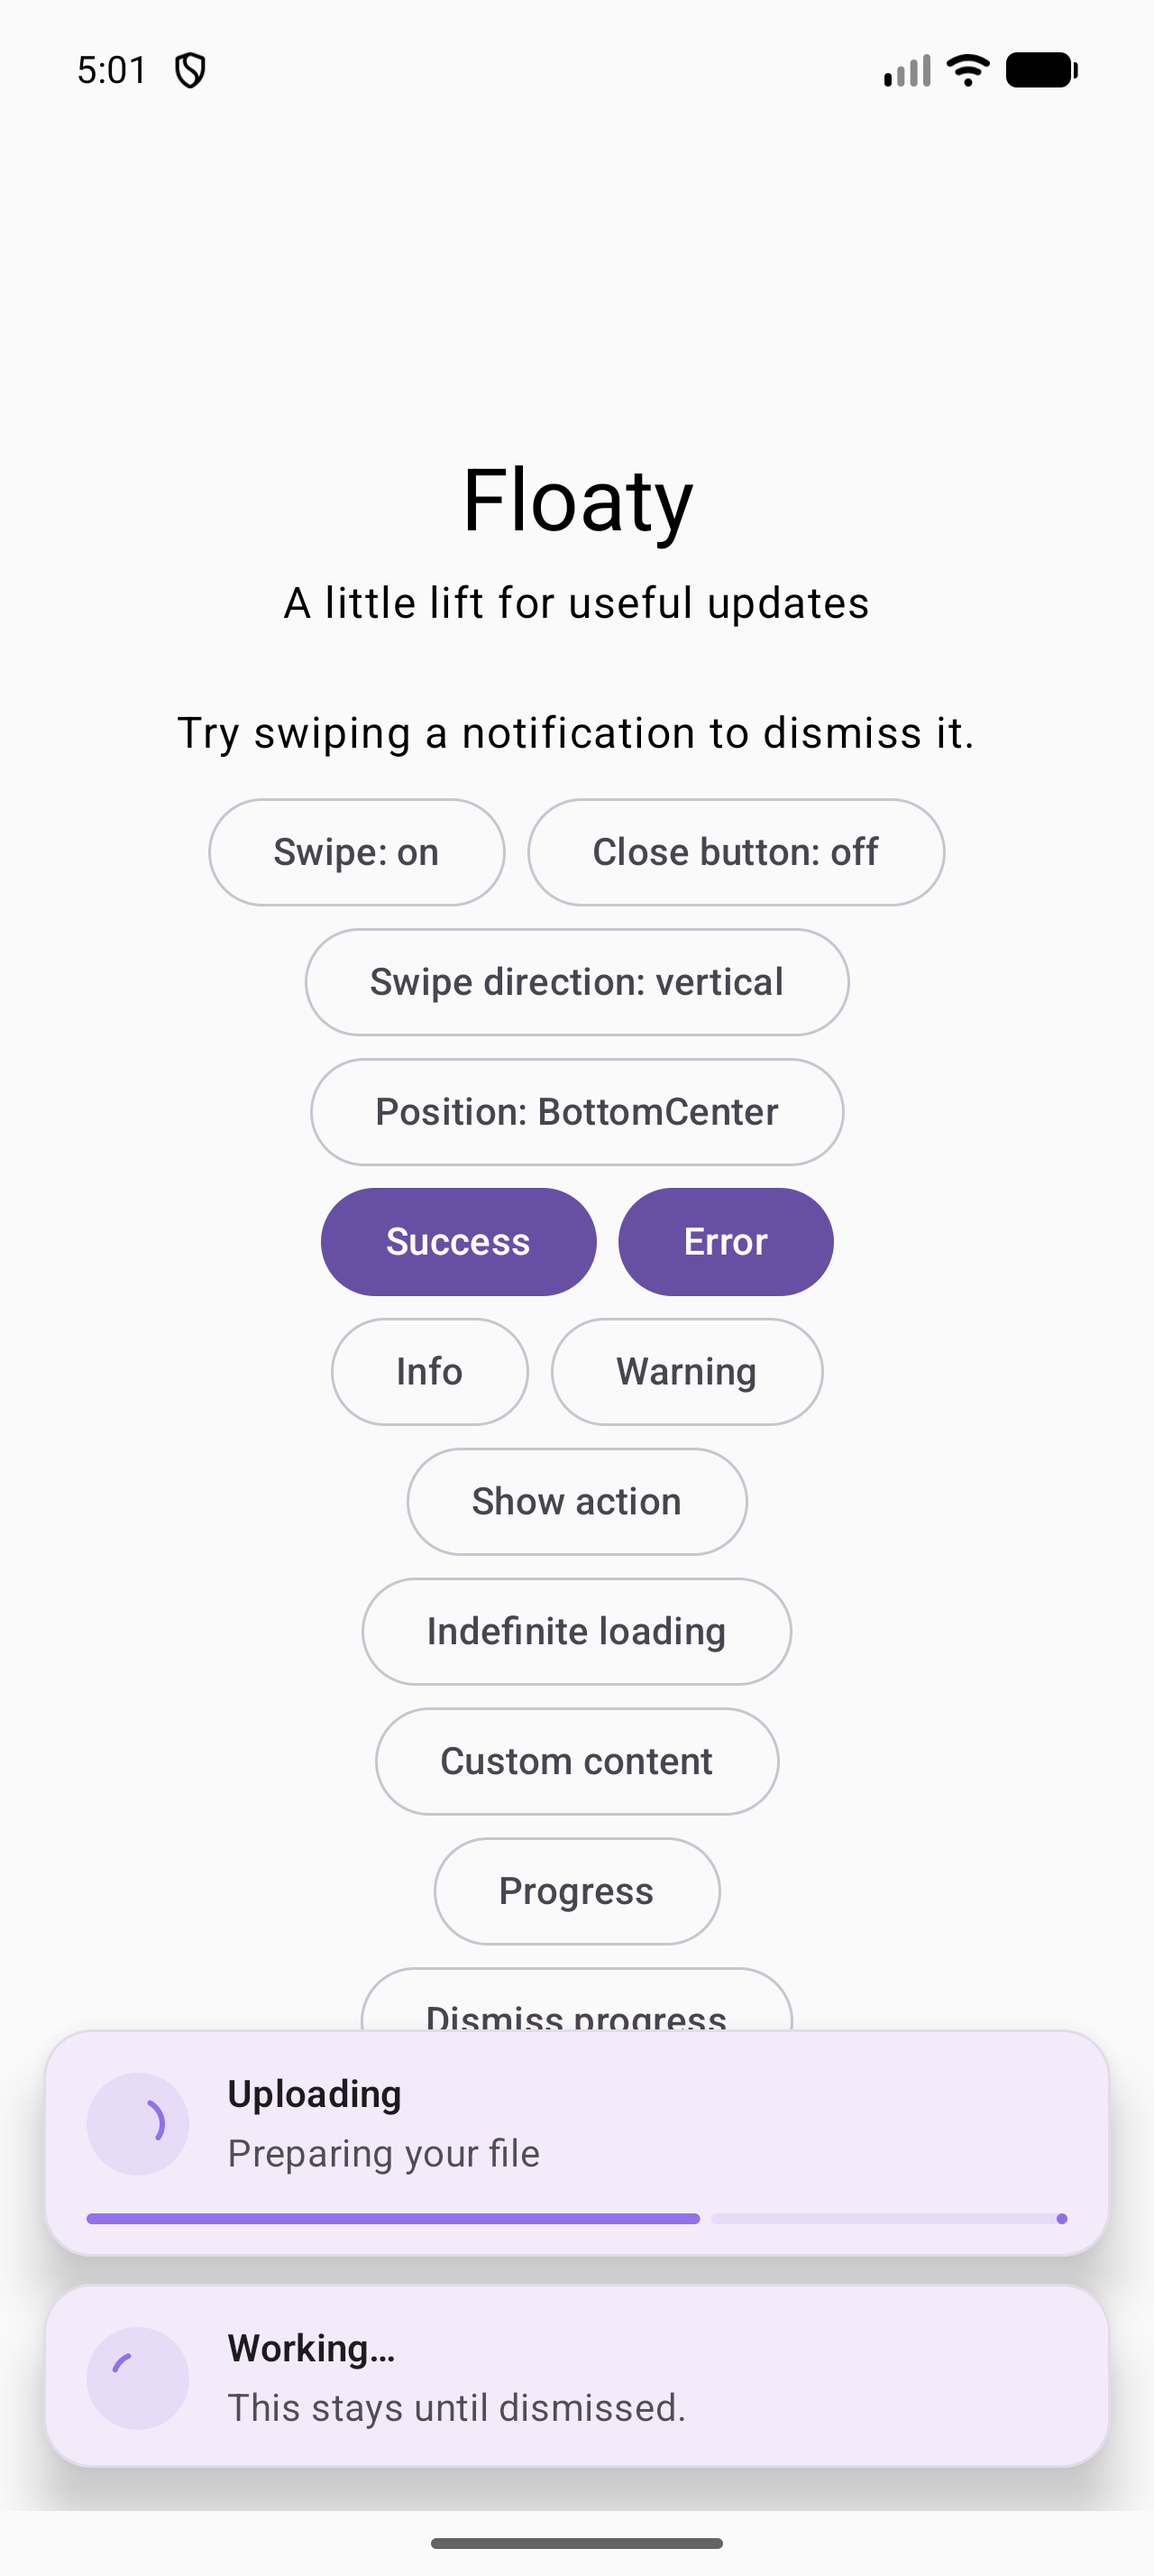
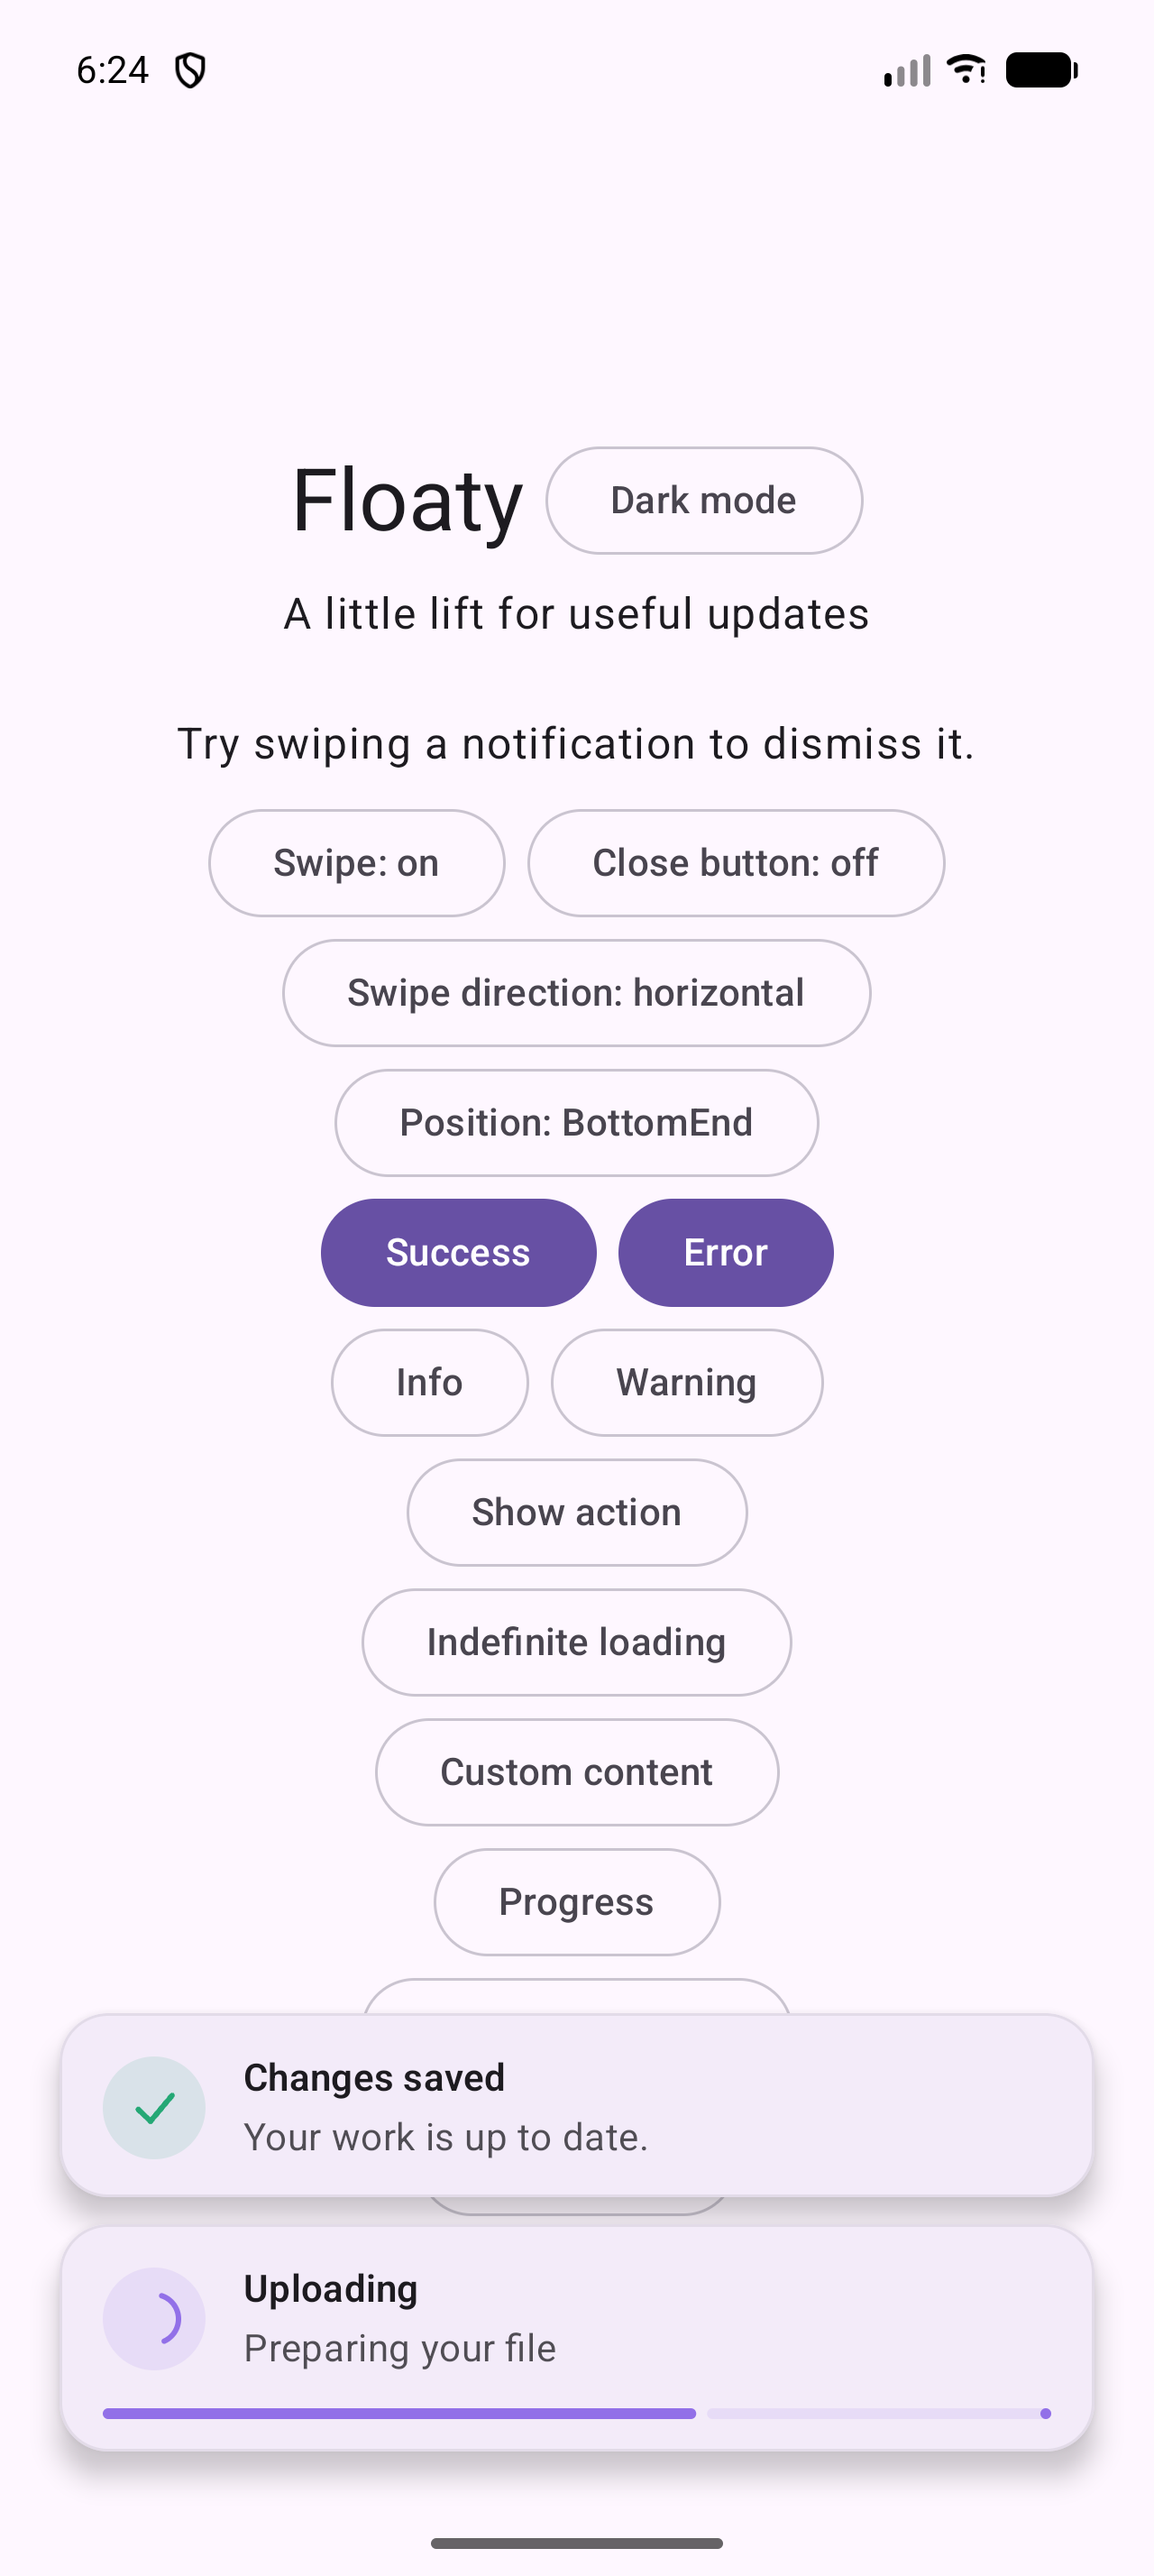
Prepare Floaty v0.1.1 release

diff --git a/README.md b/README.md
@@ -10,7 +10,7 @@
 
 Floaty displays in-app notifications in a Compose overlay. It gives the app control over message state, placement, appearance, actions, progress, and dismissal while keeping the UI in shared Kotlin code.
 
-> **Status:** stable. `v0.1.0` is published on JitPack, and Floaty works on Android, iOS, desktop, and web.
+> **Status:** stable. `v0.1.1` is the current JitPack release, and Floaty works on Android, iOS, desktop, and web.
 
 ## Preview
 
@@ -22,15 +22,23 @@ All nine supported host positions:
 
 ![Diagram showing Floaty toast placement at top, center, and bottom, aligned to start, center, and end](docs/images/floaty-positions.svg)
 
-### On Android and iOS
+### Android and iOS themes
 
-The shared Compose sample includes a Light/Dark mode switch, so the toast surface can be checked in both themes on Android, iOS, desktop, and web. Android Studio also provides dedicated Light and Dark previews with live success and upload notifications. The sample runs on a Pixel emulator and an iPhone simulator:
+The shared Compose sample includes a Light/Dark mode switch. These emulator and simulator screenshots show the toast surface in both themes:
 
-<p align="center">
-  <img src="docs/images/floaty-android.png" width="300" alt="Floaty progress and loading notifications in the Android sample on a Pixel emulator">
+<p align="center"><strong>Android</strong><br>
+  <img src="docs/images/floaty-android.png" width="240" alt="Floaty success and upload notifications in the Android sample using the light theme">
   &nbsp;&nbsp;
-  <img src="docs/images/floaty-ios.png" width="300" alt="Floaty upload progress notification in the iOS sample on an iPhone simulator">
+  <img src="docs/images/floaty-android-dark.png" width="240" alt="Floaty success and upload notifications in the Android sample using the dark theme">
 </p>
+
+<p align="center"><strong>iOS</strong><br>
+  <img src="docs/images/floaty-ios.png" width="240" alt="Floaty upload notification in the iOS sample using the light theme">
+  &nbsp;&nbsp;
+  <img src="docs/images/floaty-ios-dark.png" width="240" alt="Floaty upload notification in the iOS sample using the dark theme">
+</p>
+
+Android Studio also provides dedicated Light and Dark previews with live success and upload notifications.
 
 ## Highlights
 
@@ -56,7 +64,7 @@ Floaty uses Compose Multiplatform and the consumer's `MaterialTheme`. See [platf
 
 ## Installation
 
-Floaty is available from JitPack. The current release is `v0.1.0`; use a later release tag when upgrading.
+Floaty is available from JitPack. The current release is `v0.1.1`; use a later release tag when upgrading.
 
 In `settings.gradle.kts`:
 
@@ -72,11 +80,11 @@ In the consuming module's `build.gradle.kts`:
 
 ```kotlin
 dependencies {
-    implementation("com.github.hosseinkarami-dev.floaty-compose:floaty:v0.1.0")
+    implementation("com.github.hosseinkarami-dev.floaty-compose:floaty:v0.1.1")
 }
 ```
 
-The `v0.1.0` JitPack build passed and exposes Android, iOS device/simulator, JVM, JS, and WasmJS modules. CI validates the Linux publication and macOS iOS compilation; test the artifact in your own target app as part of adoption. See the [publishing guide](docs/PUBLISHING.md).
+The `v0.1.1` JitPack build passed and exposes Android, iOS device/simulator, JVM, JS, and WasmJS modules. CI validates the Linux publication and macOS iOS compilation; test the artifact in your own target app as part of adoption. See the [publishing guide](docs/PUBLISHING.md).
 
 ## Quick start
 

diff --git a/docs/PUBLISHING.md b/docs/PUBLISHING.md
@@ -24,6 +24,8 @@ This confirms the configured publications can be generated on that machine. CI a
 
 JitPack builds the GitHub commit selected by a tag and exposes artifacts after the build succeeds. The repository's `jitpack.yml` selects JDK 21 and runs only `:floaty:publishToMavenLocal`, passing JitPack's group and version into Gradle. JitPack's Gradle documentation describes multi-module coordinates and the custom install command; see [JitPack build documentation](https://docs.jitpack.io/building/).
 
+A JitPack version is a Git tag such as `v0.1.1`; there is no separate JitPack release to create. A GitHub Release page is optional. The tag-triggered workflow verifies that the tagged artifact resolves from JitPack.
+
 ## Automated workflows
 
 `.github/workflows/ci.yml` runs on pull requests and pushes to `main`. Its Linux job runs library JVM tests, compiles Android/JVM/JS/WasmJS, checks Maven-local publication, assembles the Android sample, and compiles desktop and browser samples. Its macOS job compiles the library and shared sample for iOS device and simulator targets.

diff --git a/CHANGELOG.md b/CHANGELOG.md
@@ -1,5 +1,10 @@
 # Changelog
 
+## [0.1.1] - 2026-10-12
+
+- Reduce the default toast elevation from 12dp to 6dp.
+- Fix swipe dismissal so the toast continues in the selected gesture direction instead of snapping back.
+
 ## [0.1.0] - 2026-10-12
 
 - First public release of Floaty, a Compose Multiplatform in-app toast library.
